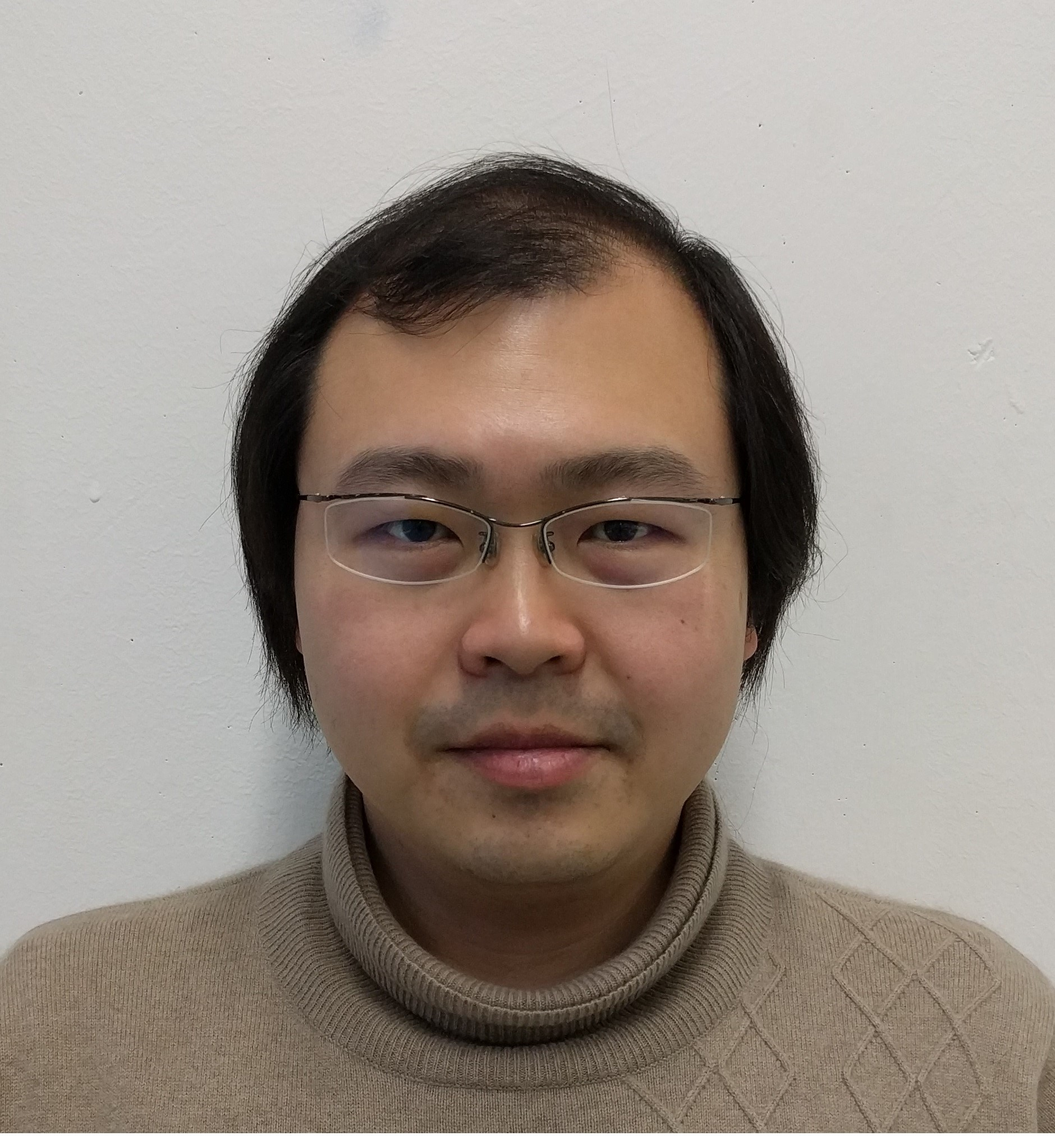
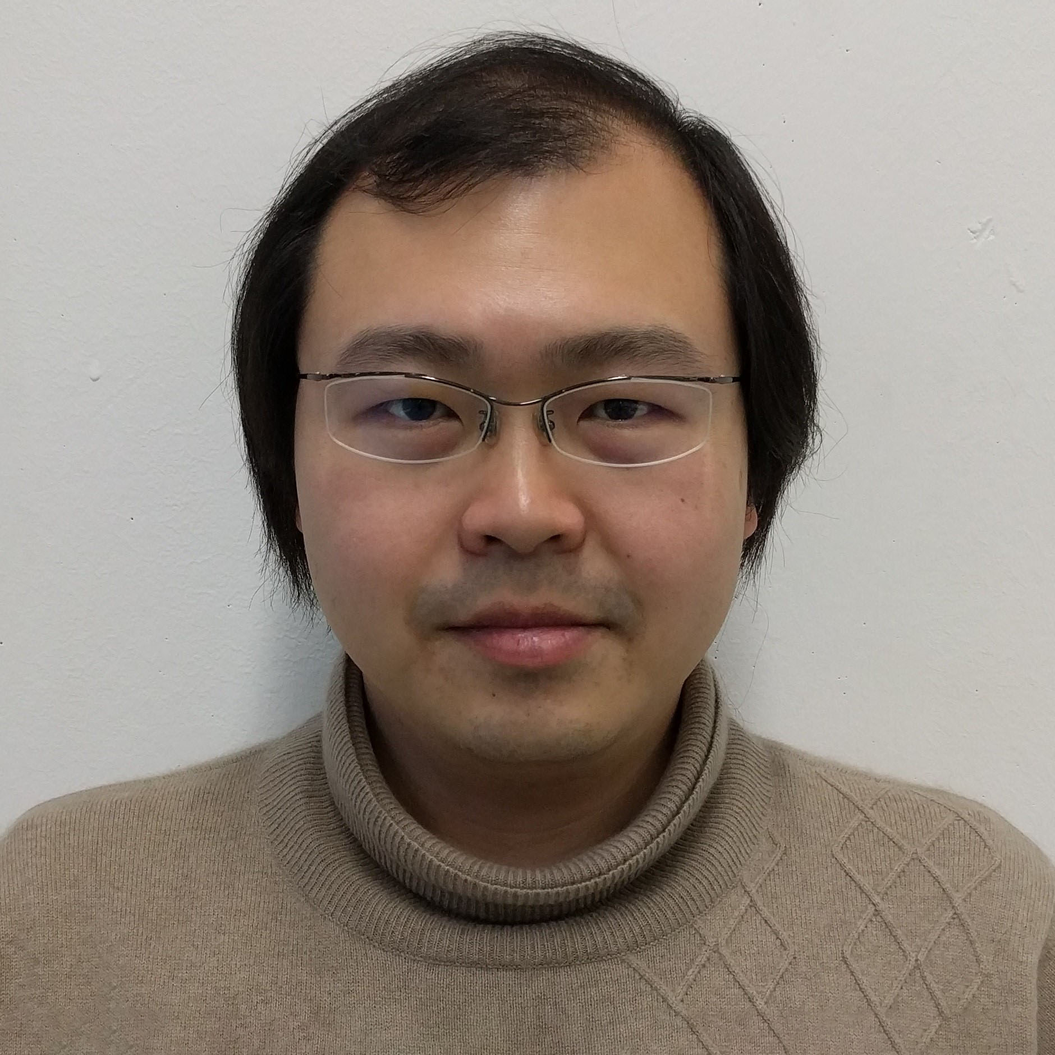
people > team: style

diff --git a/_sass/jekyll-theme-prologue.scss b/_sass/jekyll-theme-prologue.scss
@@ -241,6 +241,7 @@
 		flex-wrap: wrap;
 		align-items: center;
 		justify-content: center;
+		padding: 20px 0px 0px 0px;
 	}
 	.people {
 		width: 500px;
@@ -248,29 +249,30 @@
 		.photo {
 			float: left;
 			width: 180px;
-			height: 180px;
-			padding: 10px 10px 10px 10px;
+			height: 170px;
+			padding: 0px 5px 5px 0px;
 		}
 
 		img {
 			float: center;
-			width: 160px;
-			height: 160px;
+			width: 170px;
+			height: 170px;
 			border-radius:50%;
 		}
 
 		.spec {
 			float: left;
 			width: 320px;
-			height: 180px;
+			height: 170px;
 			text-align: left;
 			line-height: 1.25em;
 			font-size: 0.8em;
+			padding: 0px 5px 5px 0px;
 
 			p {
-			position: relative;
-			top: 50%;
-			transform: translateY(-50%);
+				position: relative;
+				top: 50%;
+				transform: translateY(-50%);
 			}
 		}
 	}

diff --git a/_people/team.md b/_people/team.md
@@ -19,7 +19,8 @@ order: 1
 		<strong>Seungmoon Song</strong><br>
 		Assistant Professor<br>
 		Mechanical Engineering<br>
-		s.song@northeastern.edu<br>
+		<font size="3">since Jan 2022</font><font size="6"><br></font>		
+		s.song@northeastern.edu<font size="6"><br></font>
 		<a href="http://seungmoon.com/" target="_blank"><i class="fa fa-home"></i></a>&nbsp;
 		<a href="
 		https://scholar.google.com/citations?user=Ca2lQs8AAAAJ&hl=en" target="_blank">
@@ -46,8 +47,8 @@ order: 1
 		<p>
 		<strong>Chun Kwang Tan</strong><br>
 		Mechanical Engineering<br>
-		NeuMover in Feb 2023<br>
-		riodren.tan@gmail.com<br>
+		<font size="3">in Feb 2023</font><font size="6"><br></font>
+		riodren.tan@gmail.com<font size="6"><br></font>
 		<a href="
 		https://scholar.google.com/citations?user=Qi8y8W4AAAAJ&hl=en" target="_blank">
 		<i class="ai ai-google-scholar-square"></i></a>&nbsp;
@@ -73,8 +74,8 @@ order: 1
 		<p>
 		<strong>Morteza Khosrotabar</strong><br>
 		Mechanical Engineering<br>
-		NeuMover in Feb 2023<br>
-		khosrotabar.m@northeastern.edu<br>
+		<font size="3">in Jan 2023</font><font size="6"><br></font>
+		khosrotabar.m@northeastern.edu<font size="6"><br></font>
 		<a href="
 		https://scholar.google.com/citations?user=LQ75ksUAAAAJ&hl=en" target="_blank">
 		<i class="ai ai-google-scholar-square"></i></a>&nbsp;
@@ -100,8 +101,8 @@ order: 1
 		<p>
 		<strong>Guangping Liu</strong><br>
 		Mechanical Engineering<br>
-		NeuMover since May 2022<br>
-		liu.guangp@northeastern.edu<br>
+		<font size="3">since May 2022</font><font size="6"><br></font>
+		liu.guangp@northeastern.edu<font size="6"><br></font>
 		</p>
 	</div>
 </div>
@@ -114,8 +115,8 @@ order: 1
 		<p>
 		<strong>Jayston Menezes</strong><br>
 		Mechanical Engineering<br>
-		NeuMover since May 2022<br>
-		menezes.j@northeastern.edu<br>
+		<font size="3">since May 2022</font><font size="6"><br></font>
+		menezes.j@northeastern.edu<font size="6"><br></font>
 		</p>
 	</div>
 </div>
